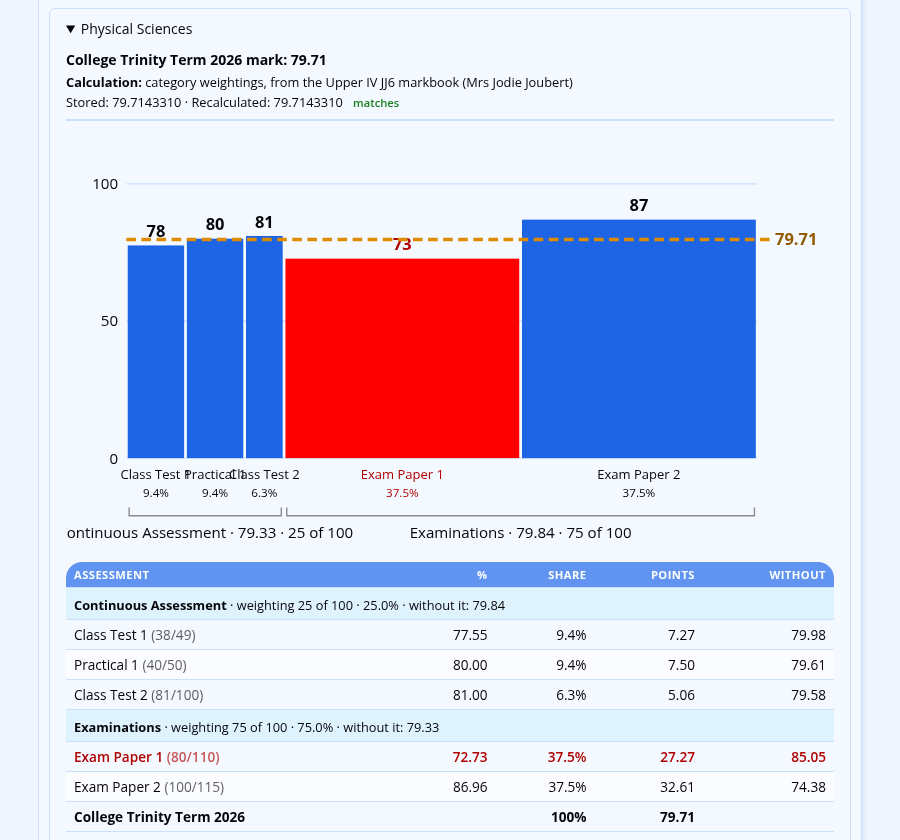
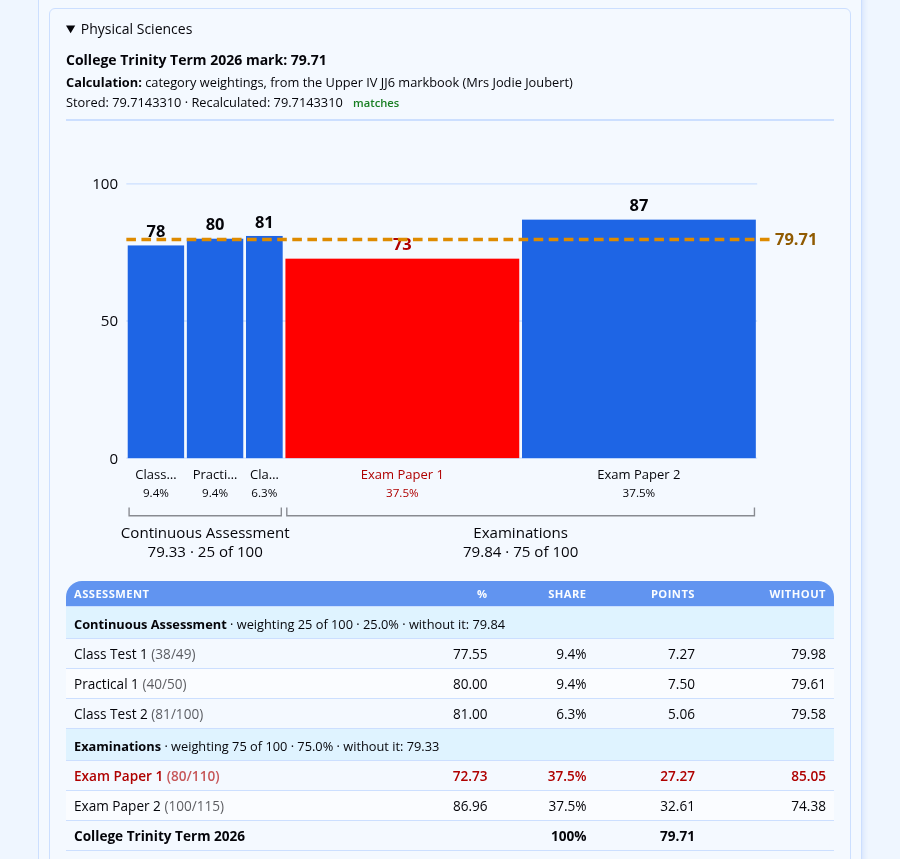
Describe the result audit's shortened labels and hidden zero-weighted sections
The result audit chart now shortens a column name that does not fit its
column, leaves out a share or percentage that does not fit, and puts each
bracket's mark and weighting on a second line, moving a caption down a
row when it would run into its neighbour. Hovering shows the full text.
The chart section now says so, and the two images that showed the old
overlapping and clipped labels are recaptured.

The table hides brackets the calculation weights zero behind a tick box,
and the "does not reproduce" note appears only when the breakdown really
is incomplete. The table section now names the tick box and says what
the note means.

The two faults these changes fix are removed from TODO.md.

diff --git a/docs/result-and-aggregate-audit.md b/docs/result-and-aggregate-audit.md
@@ -67,10 +67,12 @@ The detail explains the term mark first and the year-to-date mark second. On a w
 Each column in the chart is one input to the mark. For a term mark, the inputs are usually assessments. For a year-to-date mark, they are an assessment category in a term, a whole term, or an assessment, depending on the year-to-date calculation.
 
 - A column’s **width** is the input’s share of the mark. The widths add up to 100%.
-- A column’s **height** is the input’s percentage. The percentage is written above the column, and the input’s name and share below it.
+- A column’s **height** is the input’s percentage. The percentage is written above the column, and the input’s name and share below it. When a column is too narrow for its name, the name is shortened and ends in “…”, for example “Practi…”. When the column is too narrow for its share or its percentage as well, those are left out.
 - The **dashed line** marks the final mark.
-- The **brackets** below the columns group them, for example by assessment category. Each bracket gives its name, its mark and its weighting.
+- The **brackets** below the columns group them, for example by assessment category. Each bracket’s caption has two lines: its name, then its mark and its weighting, for example “Continuous Assessment” above “79.33 · 25 of 100”. A caption that would run into the caption beside it moves down to a second row. When there is still no room, only the bracket’s name is shown, or no caption at all.
 - An input that was absent, or that was not counted (for example by a “best of” rule), has no share, so it is left out of the chart. The table still lists it.
+
+Hover over a column to see the input’s full name, its percentage and its share of the mark. Hover over a bracket to see its whole caption. The table below the chart also gives every name in full.
 
 A wide column that sits far below the dashed line is pulling the mark down. A column shown in red meets the warning rule below.
 
@@ -88,12 +90,14 @@ The table lists the same inputs as the chart, grouped under a row for each brack
 
 Each bracket’s row gives its weighting (for example “weighting 75 of 100”), its share, and the mark without it. The last row gives the final mark.
 
+A bracket that the calculation gives no weight starts hidden in the table, together with its inputs. It has no width in the chart either, so it does not show there. A year-to-date mark often has several such brackets: a reporting period with no category weightings in the year-to-date calculation counts for nothing. To show them, tick the box under the table. It counts the hidden brackets, for example **Show the 7 sections weighted zero**, or reads **Show the section weighted zero** when there is only one. When every bracket is weighted zero, none is hidden.
+
 A row is red when leaving it out would **raise** the mark by 5 marks or more. An assessment is also red when it sits inside a red bracket and is below the final mark. A category is often split over several assessments, and none of them may move the mark much on its own while the category as a whole does.
 
 Two notes may appear under the table:
 
 - *“This grade requires every category to have a mark. ‘Without’ figures ignore that rule.”* The **Without** column answers “what if this input did not exist?”, not “what would ADAM print?”.
-- *“This breakdown does not reproduce ADAM’s mark exactly, so some figures may be incomplete.”* Rely on the stored and recalculated marks at the top, and treat the chart and table as a guide.
+- *“This breakdown does not reproduce ADAM’s mark exactly, so some figures may be incomplete.”* The chart and table do not add up to the recalculated mark, beyond the small differences that rounding causes. Rely on the stored and recalculated marks at the top, and treat the chart and table as a guide.
 
 ## Aggregate Audit
 

diff --git a/TODO.md b/TODO.md
@@ -629,22 +629,7 @@ These are ADAM issues found on the screenshot site while writing
 `docs/result-and-aggregate-audit.md`. They were seen on pupil 5250, College Trinity Term 2026
 (period 48), on the `development` branch at commit 1c33fc7896.
 
-1. **Chart labels overlap and are clipped.** In the variable-width chart, the name under a narrow
-   column runs into its neighbours' names: "Class Test 1", "Practical 1" and "Class Test 2" in
-   Physical Sciences print over each other, even with short names. A bracket label near the left
-   edge is cut off by the edge of the chart: "Continuous Assessment · 79.33 · 25 of 100" shows as
-   "ontinuous Assessment …", and on the year-to-date side "College Easter Term 2026 (14 Jan - 1
-   Apr) · 70.46" shows as "ge Easter Term 2026 …". `result-and-aggregate-audit-03.png` shows the
-   overlap and the clipped label. Recapture it once the labels are fixed.
-2. **"This breakdown does not reproduce ADAM's mark exactly" appears where the marks match.** It
-   is under the term table of 6 of the pupil's 9 subjects. For Physical Sciences, Stored and
-   Recalculated both read 79.7143310. Working the category weightings by hand gives 79.71433107,
-   which differs from 79.7143310 by 0.00000007, just over the 0.00000005 tolerance. My guess,
-   not checked in the code, is that the recalculated term mark is rounded or truncated to seven
-   decimal places before the comparison and the breakdown is not. A note that appears on most
-   subjects teaches readers to ignore it. The manual describes the note but crops it out of
-   `result-and-aggregate-audit-03.png`.
-3. **Question: should the overview's Academic Progress Menu still need the subject progress
+1. **Question: should the overview's Academic Progress Menu still need the subject progress
    permission?** `PupilScreenRenderer` shows the **Academic Progress Menu** widget only to staff
    with **View a Subject Progress Graph for a pupil**. The menu now leads to the audit and the two
    history pages, which need no such permission, so a staff member who can see the academic
